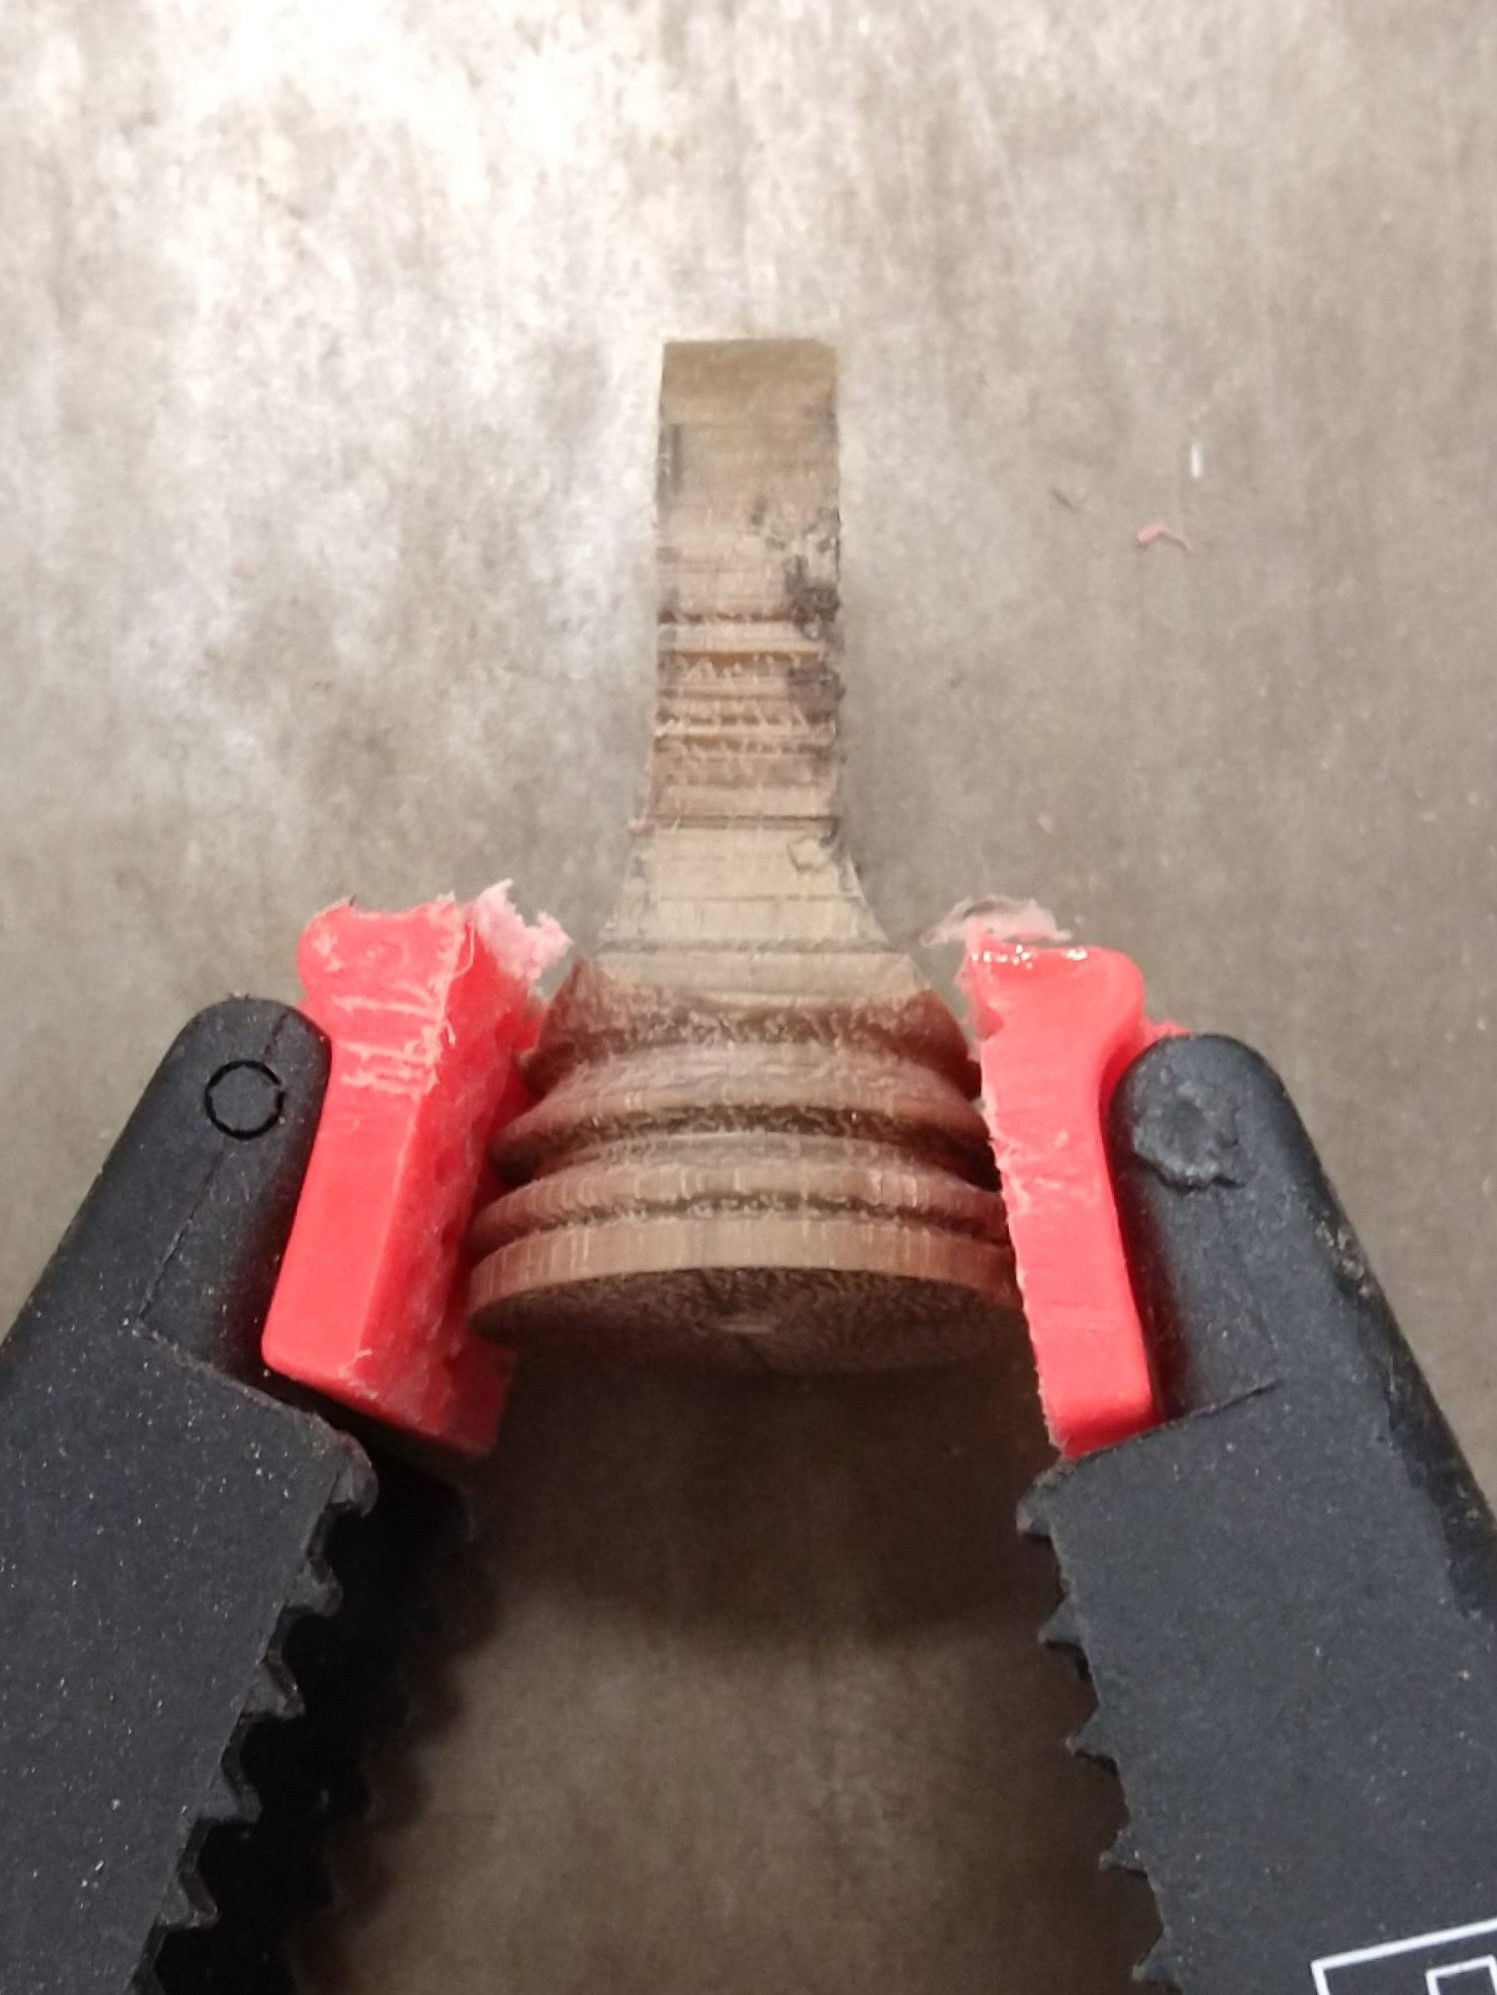
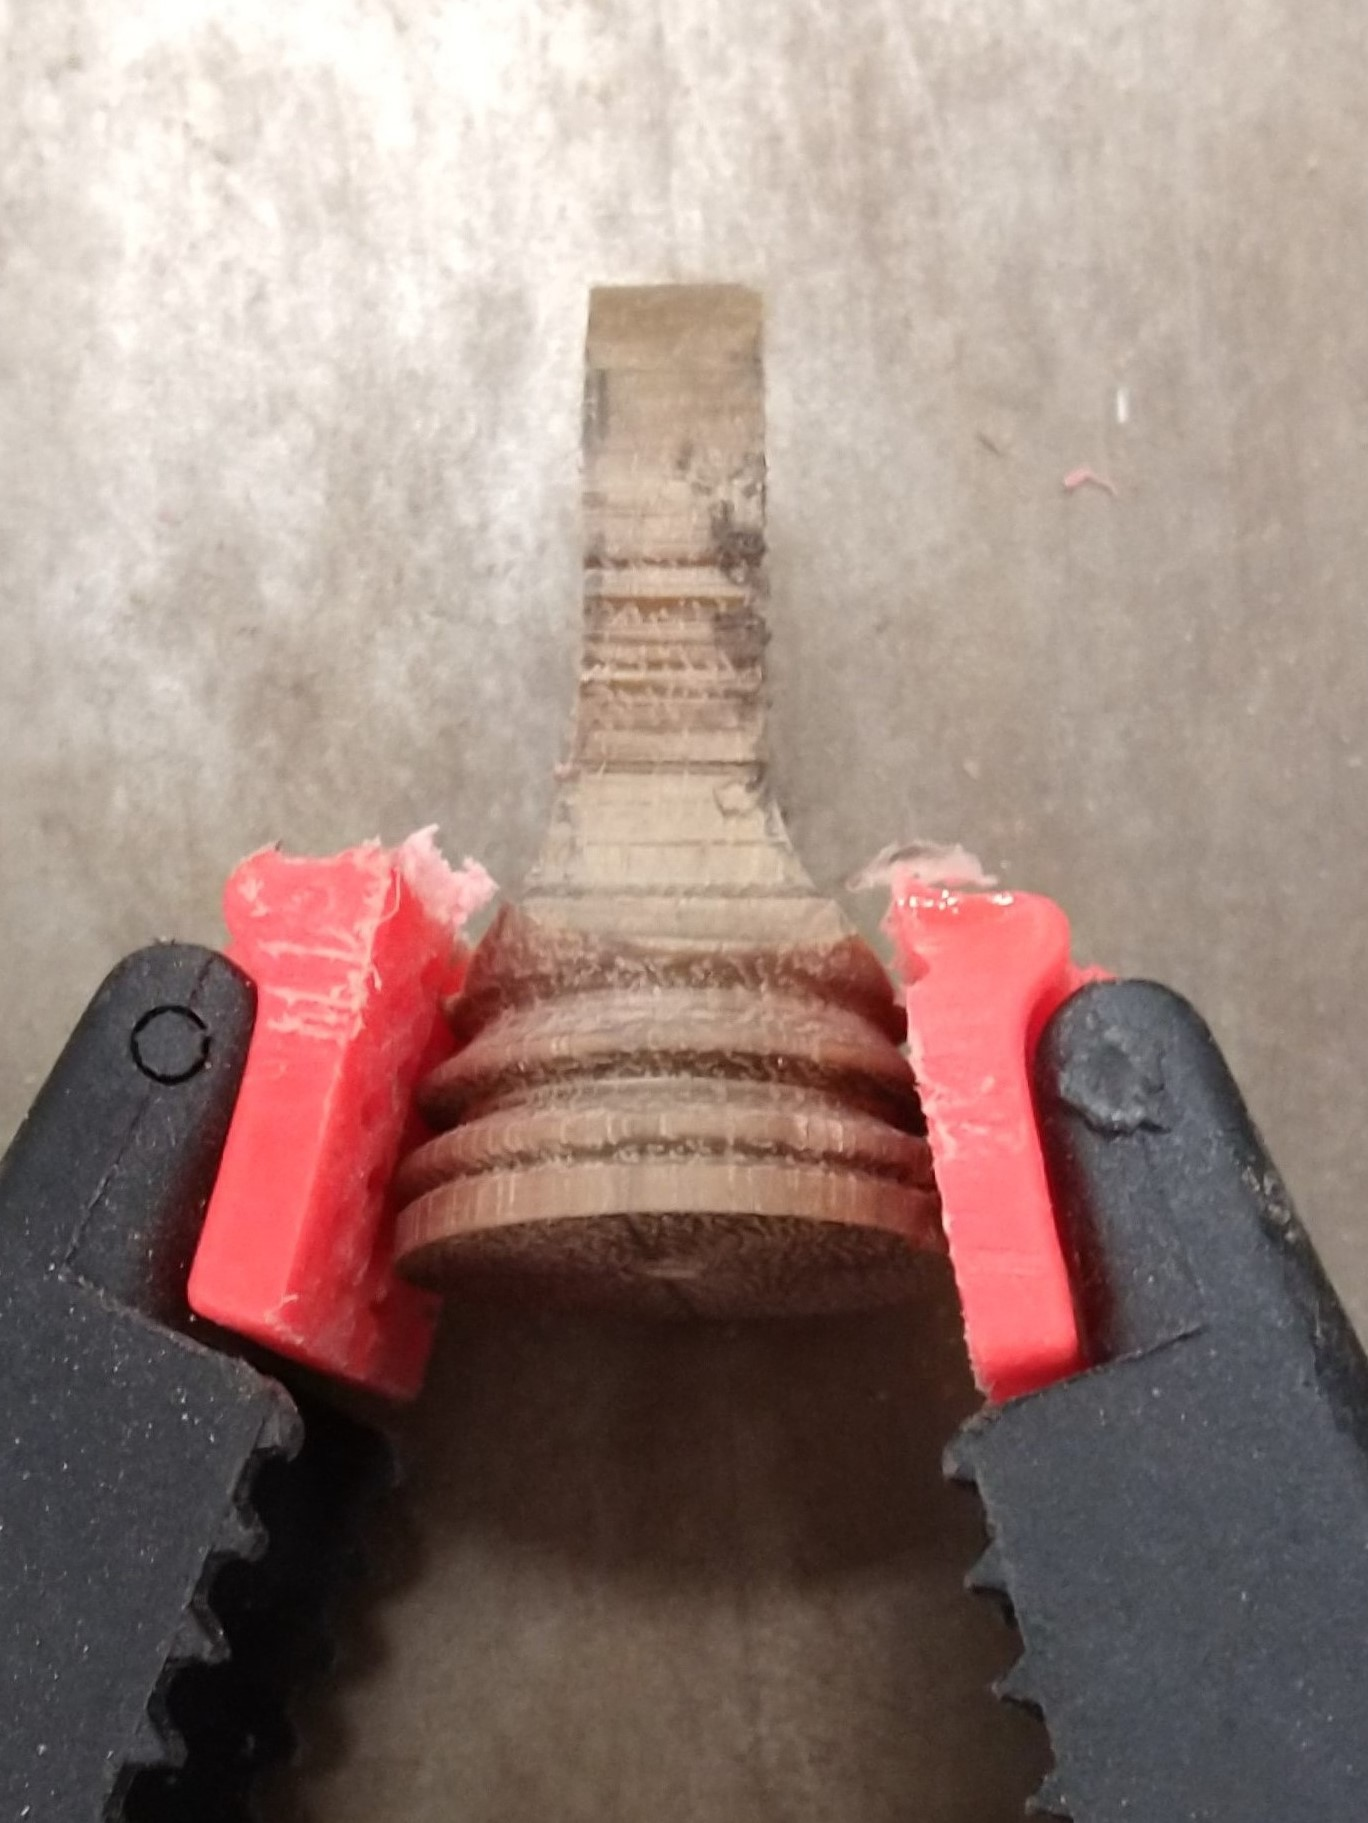
a

diff --git a/assets/main.scss b/assets/main.scss
@@ -15,16 +15,19 @@
 .rightfloat {
     /* for wide size*/
         float: right; 
-        margin: 0px 0px 10px 10px;
+        margin: 10px 0px 10px 10px;
         width: 45%;
         max-width: 100%;
+        max-height: 70vh;
+        
        
     /* for thin size */
     @include media-query($on-palm) { 
+        display: block;
         float: none;
-        margin: auto;
+        margin: 10px auto 10px auto; 
         width: auto;   
-        max-height: 70vw; 
+        max-height: 70vh; 
     } 
 }
 
@@ -65,9 +68,11 @@
 
 .gallery__img {
     max-width: 100%;
-    max-height: 85vh;
+    max-height: 70vh;
+    margin-left: auto;
+    margin-right: auto;
     width: auto;
-    height:auto;
+    height: auto;
 
 }
 
@@ -182,11 +187,15 @@
 }
 
 .basicimg {
-    width: 100%;
+    width: auto;
     max-width: 500px; 
+    max-height: 70vh;
     height: auto;
     margin: 5px;
+    margin-left: auto;
+    margin-right: auto;
 }
+
 
 .viewer3d {
     width: 97%;

diff --git a/3 Player Chess.md b/3 Player Chess.md
@@ -56,6 +56,8 @@ For a three player chess board I needed 48 chess pieces, which meant I got a lot
 I spent a bit of time learning about how to lathe (<a href="https://www.youtube.com/watch?v=KXzEjCorWO0" target="_blank">my favorite video</a>) and practising. 
 I designed my pieces to be quite traditional and combined lots of features I liked. I decided to keep the same base profile and base diameter for all the pieces. I used my designs to create 6 laser cut outlines of the profiles I wanted so that I could make my pieces reasonably similar. 
 
+jig 
+
 ### Pawn 
 finished all colors
 turning video 
@@ -96,12 +98,18 @@ turning video
     <img alt="Finished pawns" src="/sebsite/images/3_kings.jpg" class="gallery__img">
 </div>
 
+### Weighting
+<div class="clearfix">
+    <img alt="Piece holder jig" src="/sebsite/images/3_piece_holder.jpg" class="rightfloat">
+    <p>I also wanted my pieces to be weighted so I used broken 6mm carbide endmills from the CNC mill (because we have a lot of broken ones). To break the carbide to useable lengths I used a hammer and vice because it was too hard to cut easily. I made a jig to hold the pieces and drilled a hole for the carbide. Then I used hot glue to seal the hole and make the base flat. 
+    </p>
+</div>
 
-I also wanted my pieces to be weighted so I used broken 6mm carbide endmills from the CNC mill 
+<div class="gallery2">
+    <img alt="Carbide inserted" src="/sebsite/images/3_carbide_inserted.jpg" class="gallery__img">
+    <img alt="Finished base" src="/sebsite/images/3_piece_base.jpg" class="gallery__img">
+</div>
 
-
-finishing 
-final images 
 
 
 ## Case
